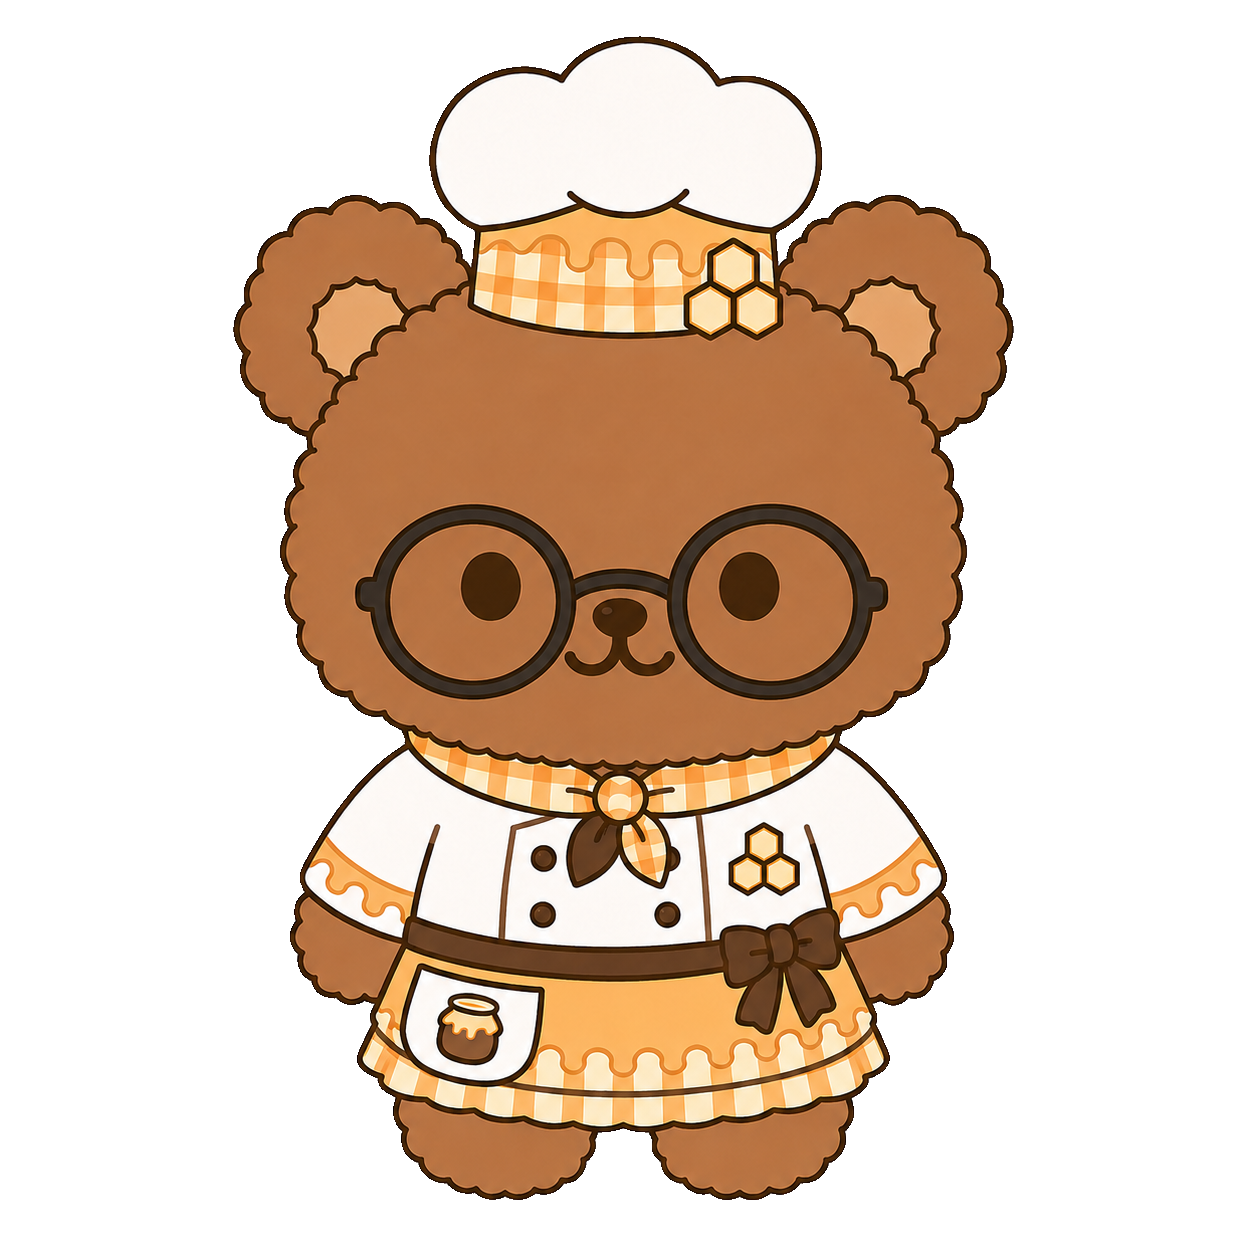
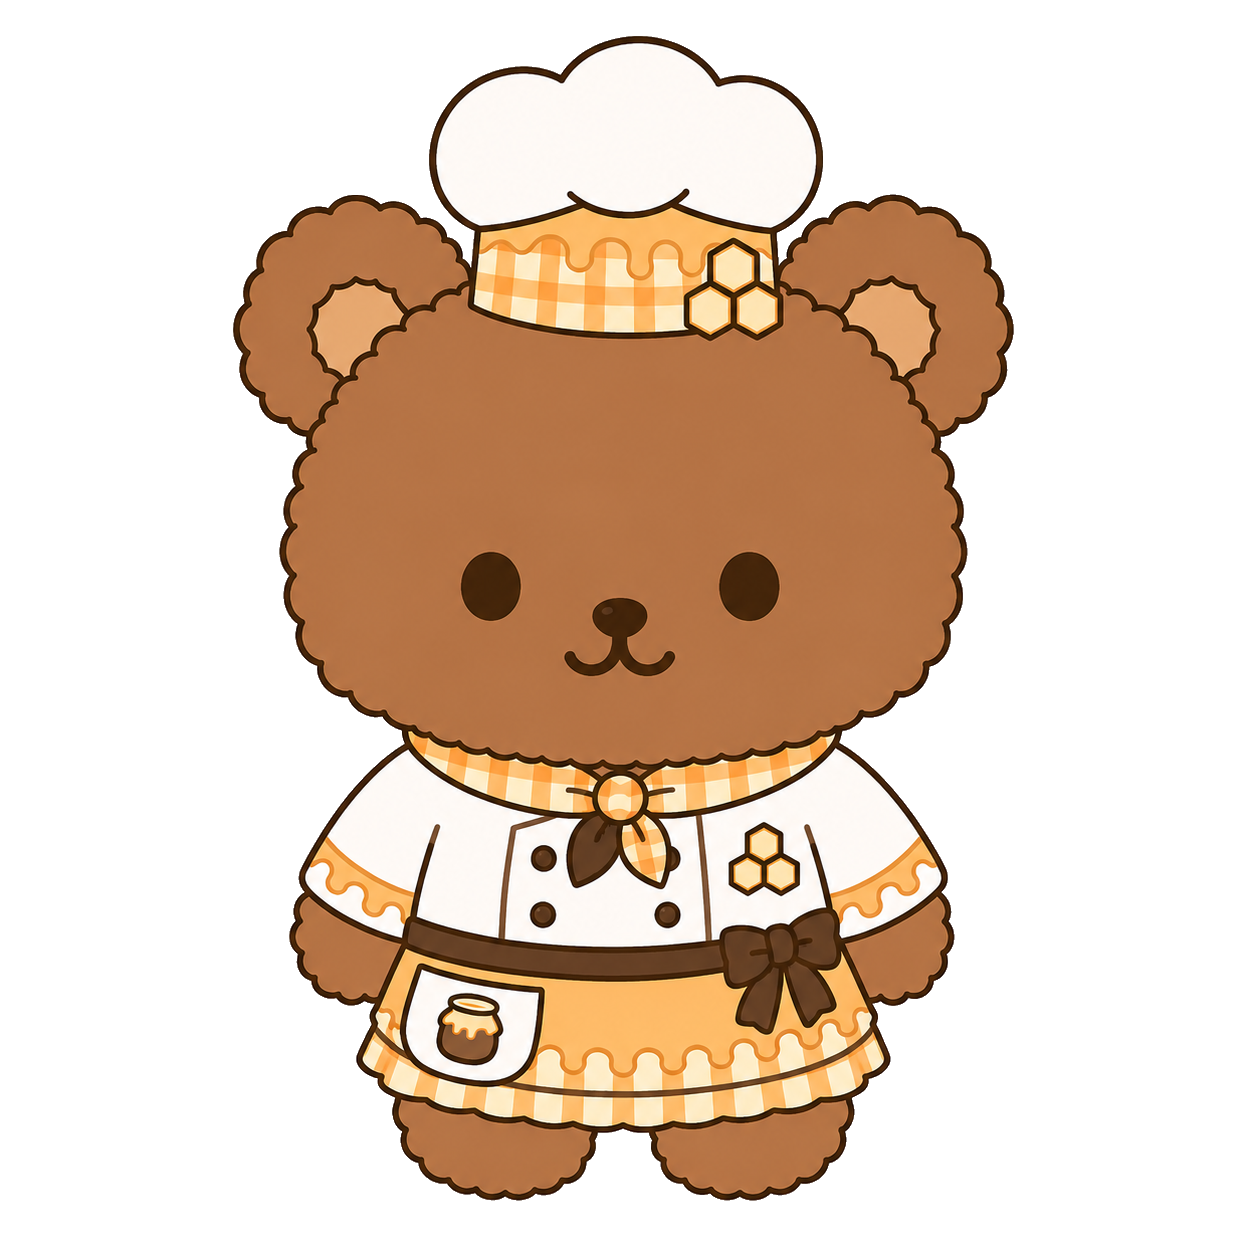
feat(streak): widen freeze rescue window to 4 missed days + new Miel base art
Rescue window goes from gap 2–4 to gap 2–5 (up to 4 missed days, i.e. 3
days after the first missed day) across all four enforcement sites:
nextStreakState, streakRescueAvailable, session-complete canRescue, and
canFreezeGap. Also swaps Miel's classic skin (honey.png) to the new
no-glasses chef art with a transparent background.

Changed region(s): [[0.2799, 0.4043, 0.7153, 0.5598]]

diff --git a/src/context/app-context.tsx b/src/context/app-context.tsx
@@ -653,8 +653,9 @@ export function daysBetween(a: string, b: string): number {
 // Pure streak transition for a study completion on `today`. `changed` is false when
 // the day already counts (so callers can leave state untouched and award no bonus).
 // `next` is both the new streak number and the coin bonus for the day. When `rescue`
-// is set and the gap is within the 3-day freeze window (2–4 days), the streak is
-// bridged and continued (consuming a freeze) instead of resetting.
+// is set and the gap is within the freeze window (2–5 days, i.e. up to 4 missed days —
+// 3 days after the first missed day), the streak is bridged and continued (consuming a
+// freeze) instead of resetting.
 function nextStreakState(
   st: StreakData,
   today: string,
@@ -666,7 +667,7 @@ function nextStreakState(
   if (diff === 1) {
     return { changed: true, next: Math.min(STREAK_MAX, st.currentStreak + 1), isComeback: false, useFreeze: false };
   }
-  if (rescue && diff <= 4) {
+  if (rescue && diff <= 5) {
     // Bridge the missed days with a freeze and continue the streak.
     return { changed: true, next: Math.min(STREAK_MAX, st.currentStreak + 1), isComeback: false, useFreeze: true };
   }
@@ -675,7 +676,8 @@ function nextStreakState(
 }
 
 // True when a lapsed streak can STILL be rescued: the gap since last activity is
-// within the 2–4 day freeze window. Rescue is possible for ANY user here — they can
+// within the 2–5 day freeze window (up to 4 missed days — 3 days after the first
+// missed day). Rescue is possible for ANY user here — they can
 // use an owned freeze OR buy one on the spot (freezes are no longer Plus-only to use),
 // so this depends only on the gap, not on Plus or current inventory. The login reward
 // + home streak display consult it so neither shows nor commits a reset for a streak
@@ -688,7 +690,7 @@ export function streakRescueAvailable(
   const last = s.streak.lastStudyDate;
   if (!last) return false;
   const gap = daysBetween(last, today);
-  return gap >= 2 && gap <= 4;
+  return gap >= 2 && gap <= 5;
 }
 
 // The streak is rescuable AND today's on-open rescue prompt hasn't been resolved yet.
@@ -995,7 +997,7 @@ type AppContextType = {
   plusPlan: 'monthly' | 'annual' | null;
   plusUntil: string;
   streakFreezes: number;
-  // True when the streak lapsed 2–4 days ago and today's on-open rescue prompt hasn't
+  // True when the streak lapsed 2–5 days ago and today's on-open rescue prompt hasn't
   // been resolved yet — drives the Home StreakRescueModal and gates the daily reward.
   streakRescuePending: boolean;
   streakRescueDismissedDate: string;
@@ -2149,11 +2151,11 @@ export function AppProvider({ children }: { children: ReactNode }) {
       }
     };
 
-    // Streak lapsed 2–4 days ago and the user owns a freeze → ask whether to spend one
+    // Streak lapsed 2–5 days ago and the user owns a freeze → ask whether to spend one
     // (same guard the receipt used). Otherwise commit straight through.
     const last = s.streak.lastStudyDate;
     const gap = last ? daysBetween(last, todayISO()) : 0;
-    const canRescue = gap >= 2 && gap <= 4 && s.streakFreezes > 0 && streakRescuePending(s, todayISO());
+    const canRescue = gap >= 2 && gap <= 5 && s.streakFreezes > 0 && streakRescuePending(s, todayISO());
     if (canRescue) {
       showPopup(
         i18n.t('sessionComplete.rescueStreakQ'),
@@ -2277,9 +2279,9 @@ export function AppProvider({ children }: { children: ReactNode }) {
     });
   };
 
-  // A freeze rescues a streak missed for up to 3 days (daysBetween 2–4). One freeze
+  // A freeze rescues a streak missed for up to 4 days (daysBetween 2–5). One freeze
   // bridges the whole gap to yesterday, so studying today continues the streak.
-  const canFreezeGap = (gap: number) => gap >= 2 && gap <= 4;
+  const canFreezeGap = (gap: number) => gap >= 2 && gap <= 5;
 
   const useStreakFreeze = (): boolean => {
     if (s.streakFreezes <= 0) return false;
@@ -2293,7 +2295,7 @@ export function AppProvider({ children }: { children: ReactNode }) {
       return {
         ...prev,
         streakFreezes: prev.streakFreezes - 1,
-        // Bridge exactly one missed day; no coins awarded.
+        // Bridge the whole gap to yesterday; no coins awarded.
         streak: { ...prev.streak, lastStudyDate: yesterdayISO() },
       };
     });

diff --git a/src/components/streak-rescue-modal.tsx b/src/components/streak-rescue-modal.tsx
@@ -1,10 +1,10 @@
 /**
- * On-open streak-rescue prompt, shown on Home the day the streak has lapsed 2–4 days
- * ago (the freeze window) and hasn't been handled yet today. It's the primary place a
- * lapsed streak is saved: if the player owns a freeze they can spend one; if they own
- * none they can buy one on the spot ($1.99) which bridges the streak directly. Picking
- * "Let it reset" just marks it handled — the streak resets naturally on the next study
- * session (or once the gap passes 4 days).
+ * On-open streak-rescue prompt, shown on Home the day the streak has lapsed 2–5 days
+ * ago (the freeze window — up to 4 missed days) and hasn't been handled yet today. It's
+ * the primary place a lapsed streak is saved: if the player owns a freeze they can spend
+ * one; if they own none they can buy one on the spot ($1.99) which bridges the streak
+ * directly. Picking "Let it reset" just marks it handled — the streak resets naturally
+ * on the next study session (or once the gap passes 5 days).
  *
  * Gated behind the celebratory popups (character/hanji/recipe/birthday) and shown just
  * BEFORE the daily reward so the rescue is resolved before the login reward can advance
